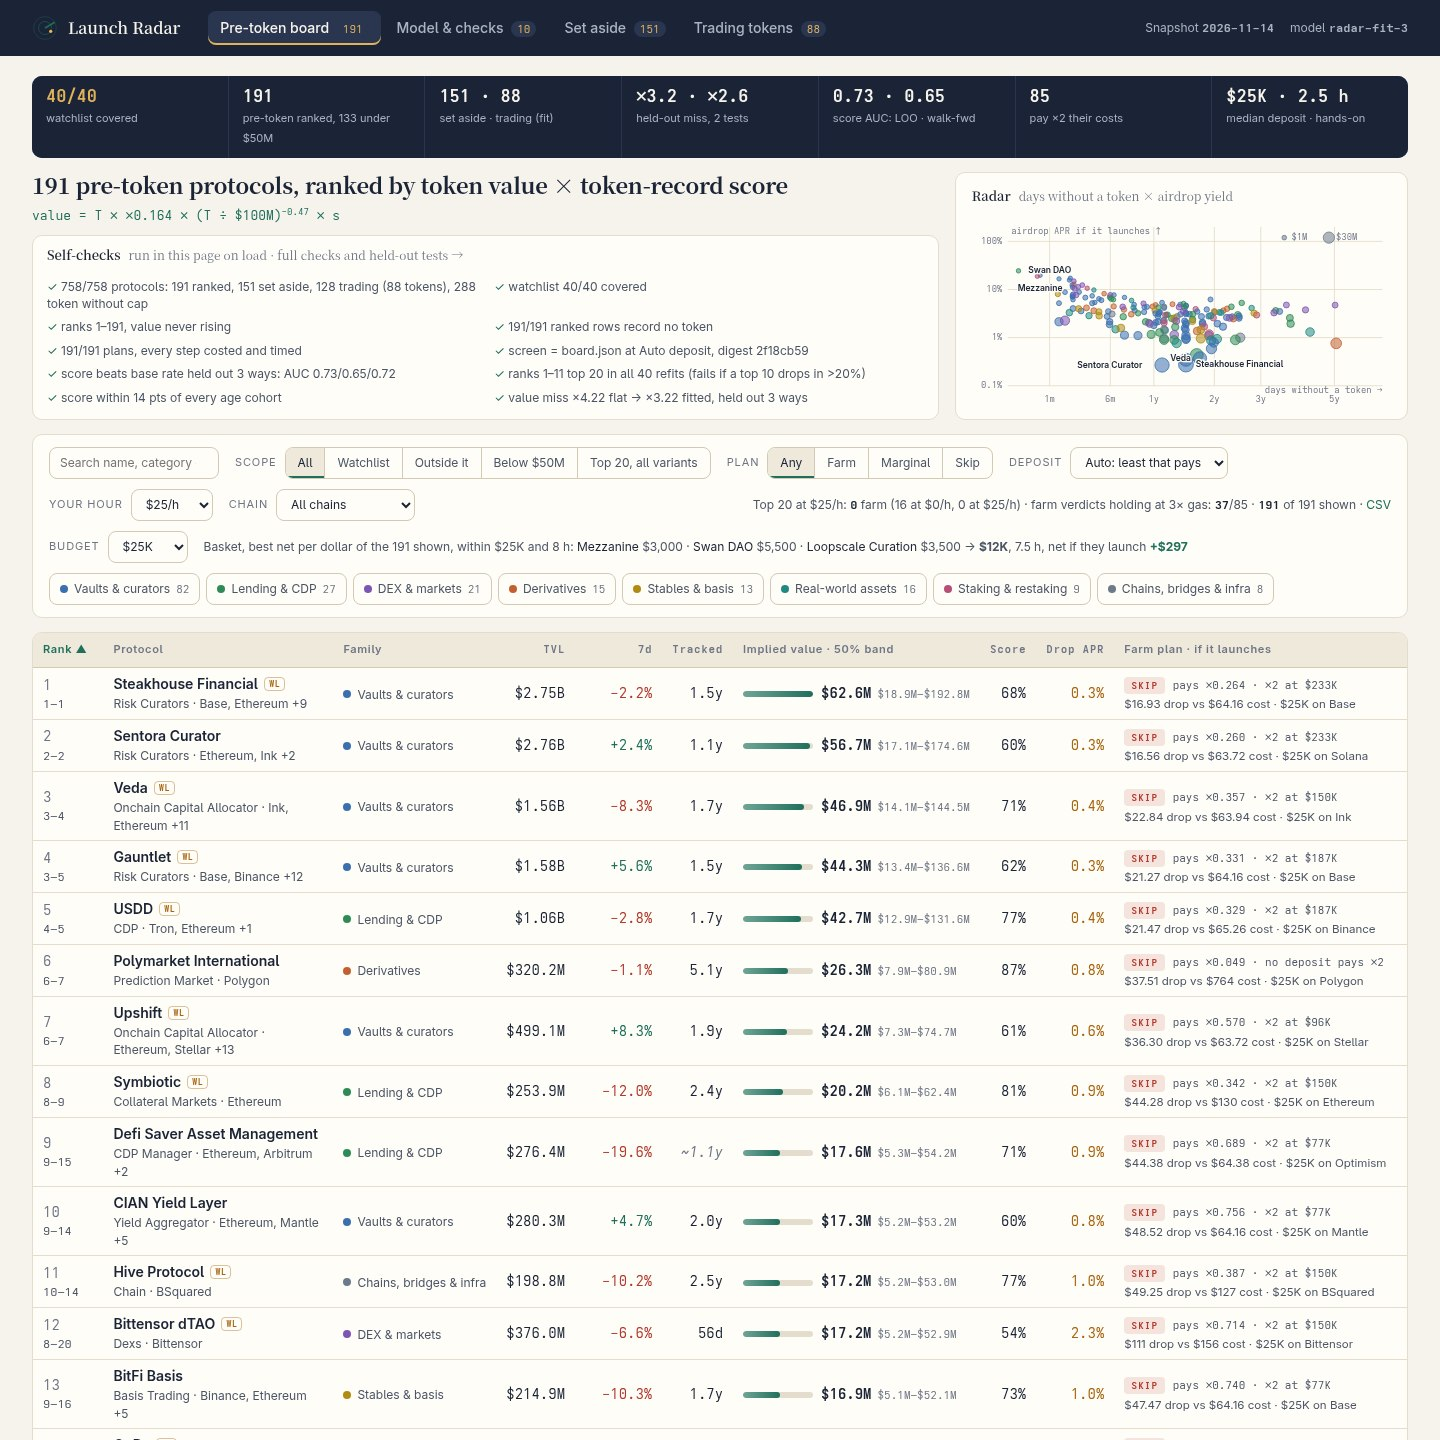
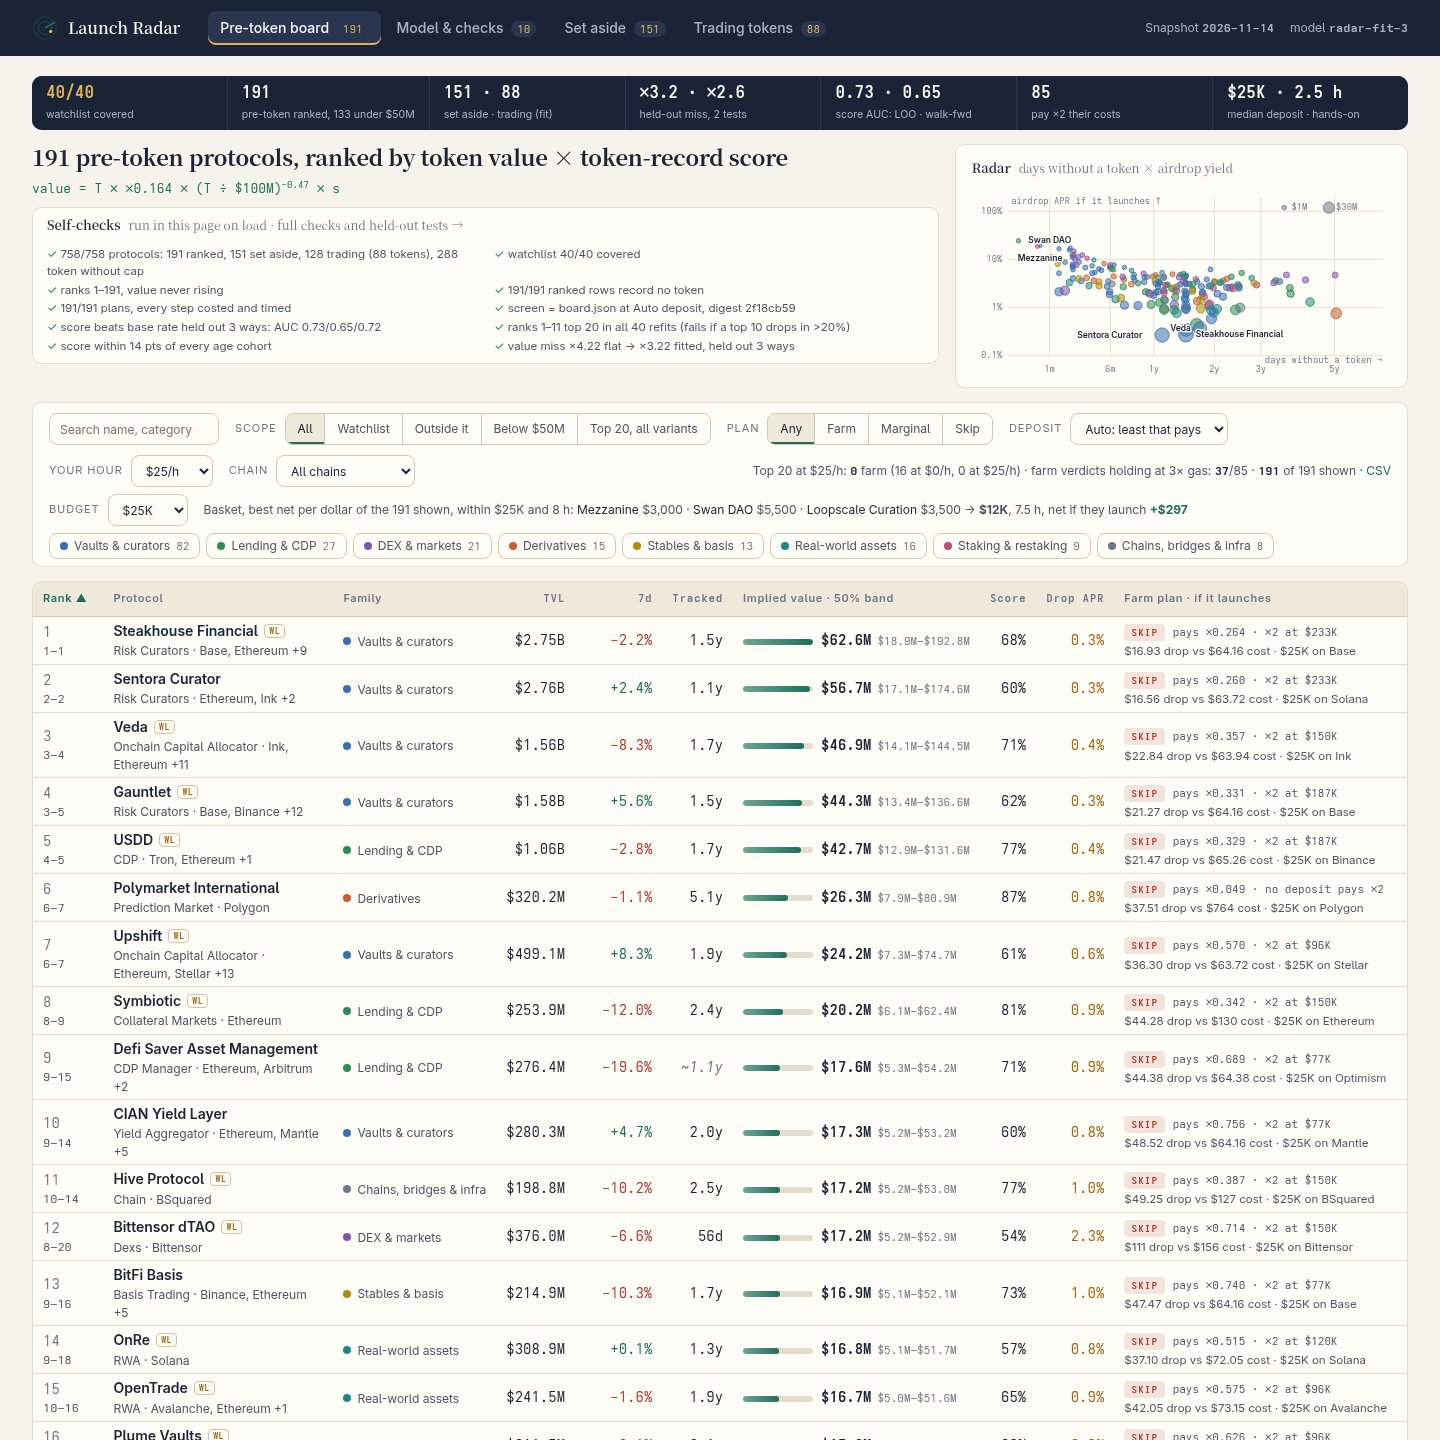
Slim cover via CSS: tighter strip, self-checks, controls and table rows; the board screenshot shows 15 ranked rows (was 13), nothing truncated

Changed region(s): [[0.0, 0.0625, 1.0, 1.0], [0.6875, 0.8438, 0.7188, 1.0], [0.6875, 0.75, 0.7188, 0.8125]]

diff --git a/dashboard/style.css b/dashboard/style.css
@@ -194,3 +194,13 @@ td.proto{min-width:230px;}
 .board tbody tr:hover td{background:#1f6f5c0a;}
 .hero.slim .chartcard{align-self:stretch;display:flex;flex-direction:column;}
 .hero.slim .chartcard .radar{margin:auto 0;}
+/* Slim cover: more of the ranking above the fold, nothing truncated. */
+.strip div{padding:7px 14px;}
+.strip b{font-size:16px;}
+.checks{padding:8px 14px;}
+.strip span{white-space:nowrap;font-size:10.5px;}
+.checks li{padding:1px 0;font-size:11.5px;line-height:1.45;}
+.ctl{padding:10px 16px 0;}
+.ctl .filters{margin-bottom:7px;}
+.ctl .chip{height:26px;}
+.board td{padding:4px 10px;}
